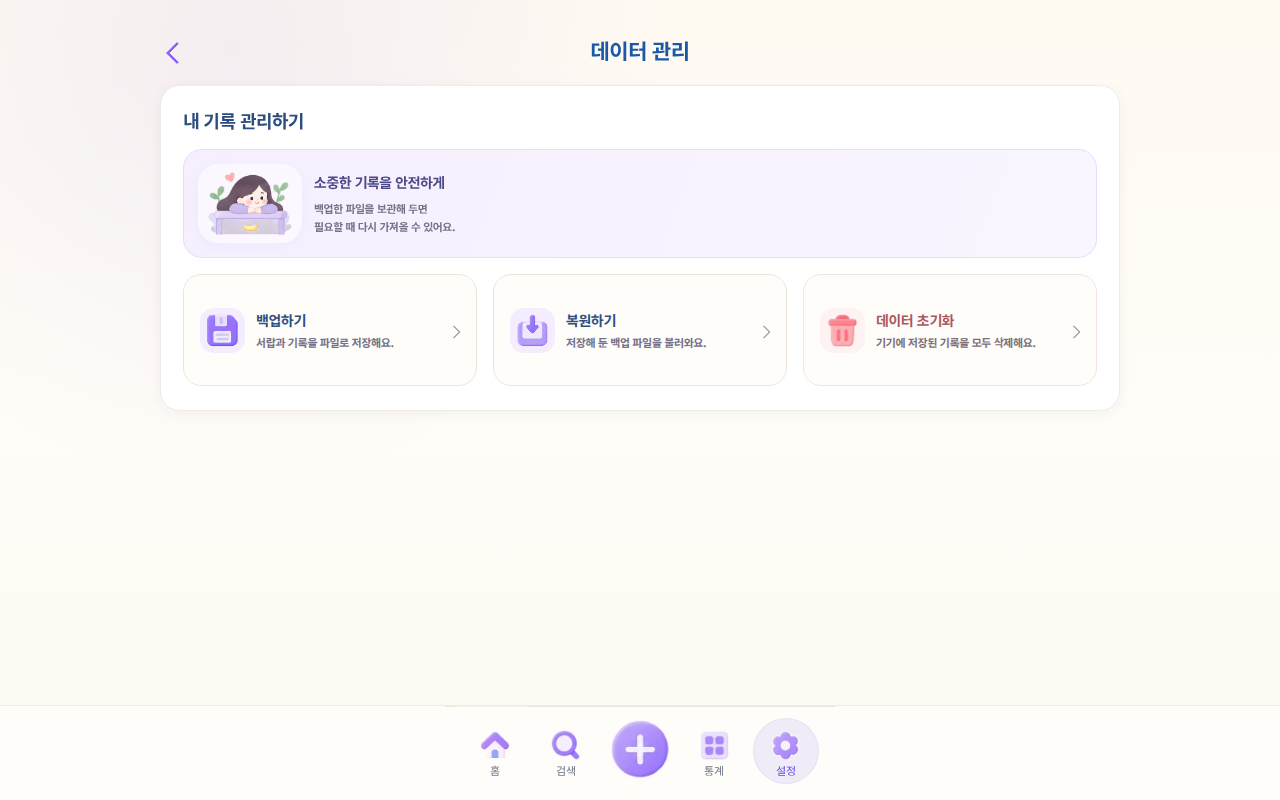
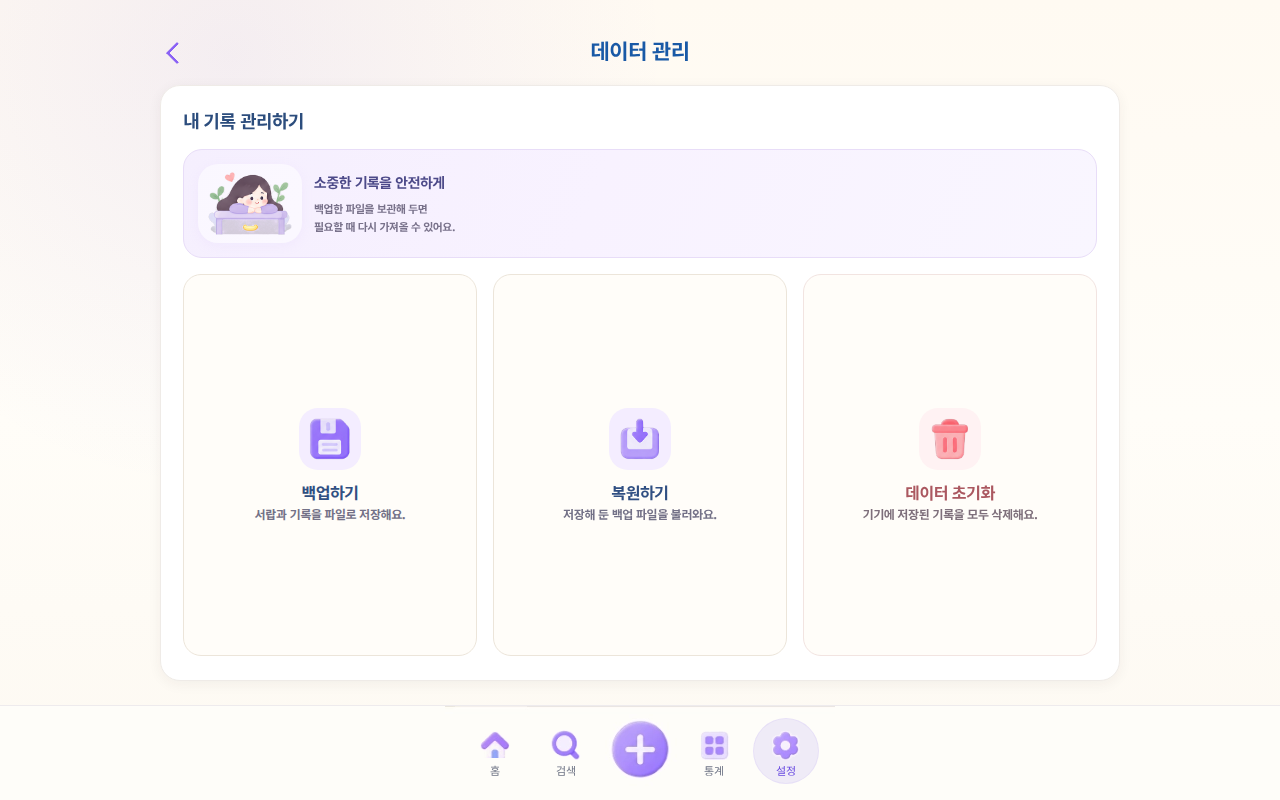
Landscape settings screens: cards fill the height (tiles), theme keeps the approved card proportions; page centred when short
Claude-Session: https://claude.ai/code/session_01GjqJbS89D4DFQDLTKoRXvw

diff --git a/drawary-v2/src/wide/wideSettings.css b/drawary-v2/src/wide/wideSettings.css
@@ -3,7 +3,7 @@
    scoped under .wide-sd (see App.tsx), so the phone screens are untouched. Their own FixedCanvas (a 390 px canvas) is switched
    off here and each screen's root is let free of its fixed 390 x 844 size. */
 .wide-sd { flex: 1 1 auto; min-height: 0; overflow-y: auto; }
-.wide-sd > .drawary-app-shell { max-width: none; height: auto; min-height: 100%; overflow: visible; background: transparent; padding-top: 0; display: block; }
+.wide-sd > .drawary-app-shell { max-width: none; width: 100%; margin: 0; height: auto; min-height: 100%; overflow: visible; background: transparent; padding-top: 0; display: block; }
 .wide-sd .drawary-fixed-canvas-host { height: auto !important; overflow: visible; }
 .wide-sd .drawary-fixed-canvas-scale { position: static; width: auto; height: auto !important; transform: none !important; }
 .wide-sd .sec40-screen, .wide-sd .dmh44-screen, .wide-sd .ts39-screen, .wide-sd .lang54-screen, .wide-sd .help55-screen, .wide-sd .info58-screen, .wide-sd .fb59-screen {
@@ -28,7 +28,7 @@
 
 /* ---- theme (#39): the five styles in one row ---- */
 .wide-sd .ts39-panel { position: static; margin: 0 20px 28px; padding: 22px 22px 24px; }
-.wide-sd .ts39-themes { grid-template-columns: repeat(5, minmax(0, 1fr)); gap: 14px; }
+.wide-sd .ts39-themes { grid-template-columns: repeat(5, minmax(0, 176px)); justify-content: center; gap: 16px; }
 .wide-sd .ts39-theme[data-theme="sky"] { grid-column: auto; width: auto; justify-self: stretch; }
 .wide-sd .ts39-theme-note { position: static; margin: 20px 0 0; white-space: normal; }
 
@@ -68,3 +68,31 @@
 .wide-sd .fb59-bottom { position: static; padding: 8px 20px 28px; background: none; }
 .wide-sd .fb59-send { max-width: 520px; margin: 0 auto; display: block; }
 .wide-sd .fb59-status { position: static; margin: 0 20px 20px; }
+
+/* ---- fill the height: the first-level screens stretch their cards (or centre their content) instead of leaving the bottom empty ---- */
+.wide-sd { display: flex; flex-direction: column; }
+.wide-sd > .drawary-app-shell, .wide-sd .drawary-fixed-canvas-host, .wide-sd .drawary-fixed-canvas-scale { display: flex; flex-direction: column; flex: 1 1 auto; min-height: 0; }
+.wide-sd .sec40-screen, .wide-sd .dmh44-screen, .wide-sd .ts39-screen, .wide-sd .lang54-screen, .wide-sd .help55-screen, .wide-sd .info58-screen { display: flex; flex-direction: column; flex: 1 1 auto; }
+.wide-sd .sec40-panel, .wide-sd .dmh44-panel { flex: 1 1 auto; margin-bottom: 24px; }
+.wide-sd .ts39-panel { flex: 0 0 auto; margin-bottom: 24px; }
+.wide-sd .ts39-screen { justify-content: center; }
+.wide-sd .sec40-panel { grid-template-rows: auto auto minmax(150px, 1fr) auto; }
+.wide-sd .dmh44-panel { grid-template-rows: auto auto minmax(150px, 1fr); }
+/* the option cards become tall tiles: icon above, text below, the switch or arrow underneath */
+.wide-sd .sec40-item, .wide-sd .dmh44-item { flex-direction: column; justify-content: center; text-align: center; gap: 12px; padding: 22px 16px; }
+.wide-sd .sec40-item-copy, .wide-sd .dmh44-item-copy { flex: 0 0 auto; }
+.wide-sd .sec40-item-icon, .wide-sd .dmh44-item-icon { width: 62px; height: 62px; border-radius: 19px; }
+.wide-sd .sec40-item-icon img, .wide-sd .dmh44-item-icon img { width: 50px; height: 50px; }
+.wide-sd .dmh44-right-arrow { display: none; }
+.wide-sd .sec40-item-copy strong, .wide-sd .dmh44-item-copy strong { font-size: 16px; }
+.wide-sd .sec40-item-copy small, .wide-sd .dmh44-item-copy small { font-size: 12px; }
+/* theme: the five cards grow with the page */
+.wide-sd .ts39-panel { display: flex; flex-direction: column; }
+.wide-sd .ts39-themes { flex: 0 0 auto; }
+.wide-sd .ts39-theme { height: 182px; min-height: 0; }
+.wide-sd .ts39-theme-preview { flex: none; height: 113px; }
+/* language: cards share the height with the note and buttons */
+.wide-sd .lang54-form { flex: 1 1 auto; grid-template-rows: minmax(0, 1fr) auto auto; align-content: stretch; max-height: 640px; }
+.wide-sd .lang54-card .lang54-art { flex: 1 1 auto; height: auto; min-height: 150px; }
+/* help and info: short pages are centred vertically */
+.wide-sd .help55-screen, .wide-sd .info58-screen { justify-content: center; }
